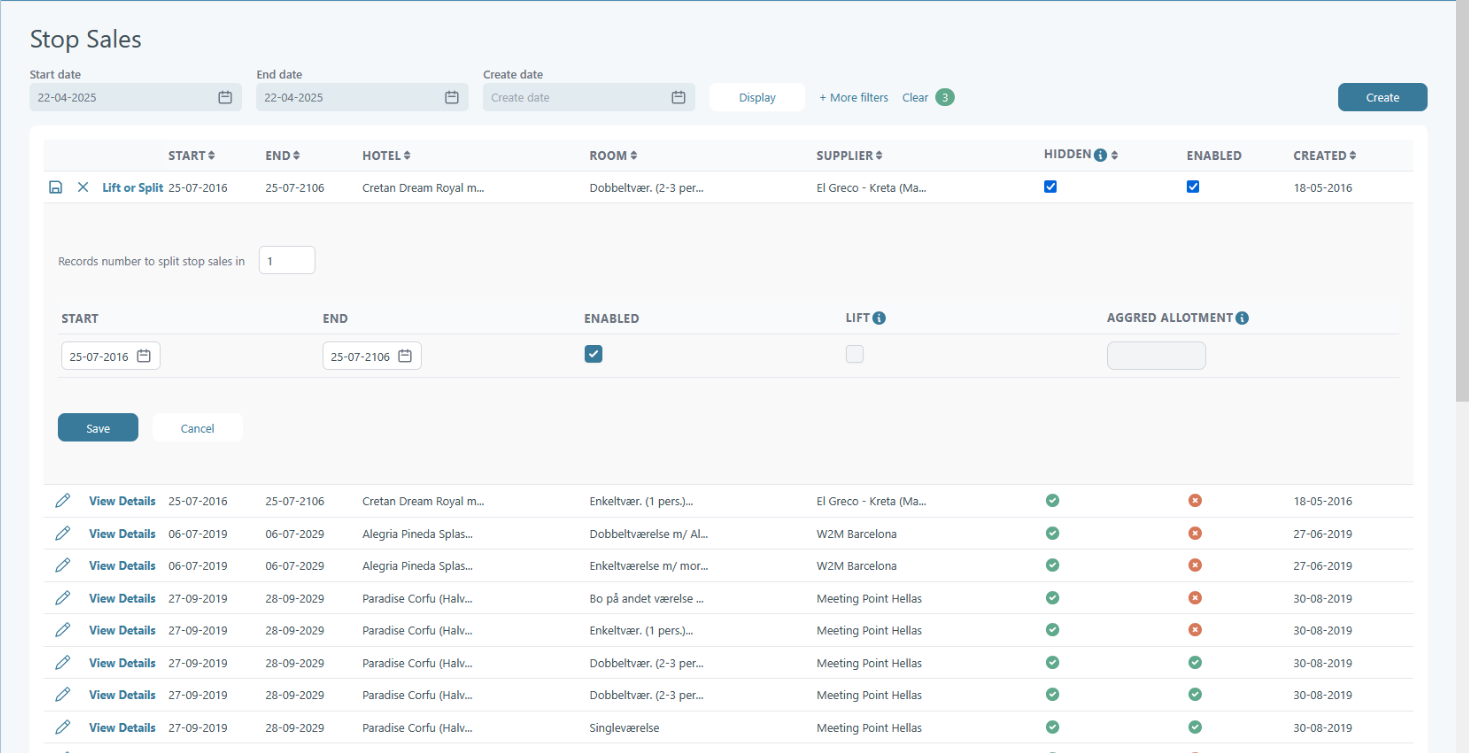
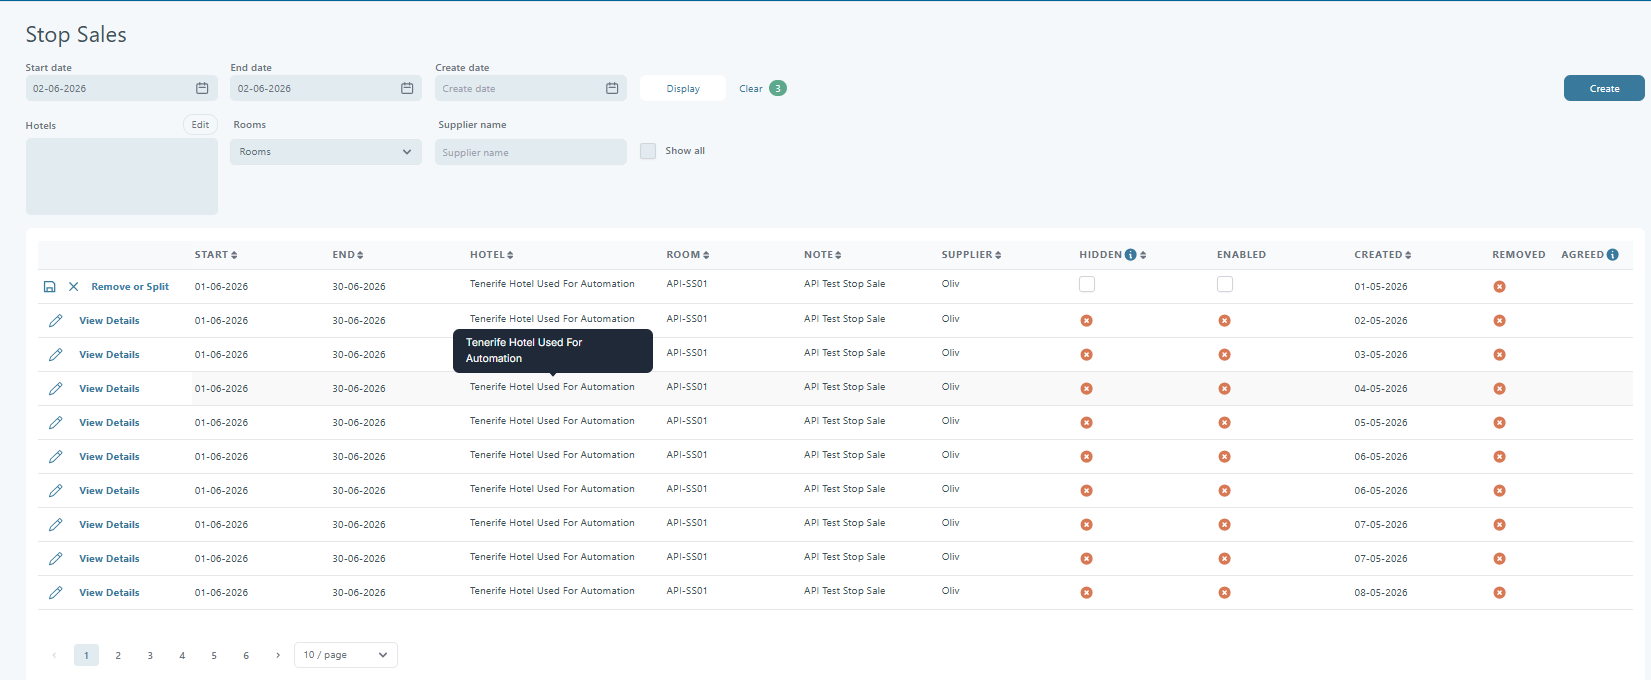
GITBOOK-1100: No subject

diff --git a/stop-sales/edit-stop-sale.md b/stop-sales/edit-stop-sale.md
@@ -28,7 +28,7 @@ The purpose of the _Edit Stop Sale_ functionality is to:
 2. Find the rule you want to change.
 3. Click **Edit** (pencil icon).
 
-<figure><img src="../.gitbook/assets/image (30).png" alt=""><figcaption></figcaption></figure>
+<figure><img src="../.gitbook/assets/02.06.2026_14.36.22_REC.png" alt=""><figcaption></figcaption></figure>
 
 {% hint style="info" %}
 Only enabled rules can be removed or split.
@@ -40,7 +40,7 @@ Only enabled rules can be removed or split.
 
 Click **Remove or Split** above the rule. This opens an extra section under the list.
 
-<figure><img src="../.gitbook/assets/image (1) (1) (1) (1) (1) (1) (1) (1) (1) (1) (1) (1) (1) (1) (1) (1) (1) (1) (1) (1) (1) (1) (1) (1) (1) (1) (1) (1) (1) (1) (1) (1) (1) (1) (1) (1) (1) (1) (1) (1) (1) (1) (1) (1) (1) (1) (1) (1) (1) (1) (1) (1) (1) (1) (1) (1) (1) (1) (1) (1)  (23).png" alt=""><figcaption></figcaption></figure>
+<figure><img src="../.gitbook/assets/02.06.2026_14.38.26_REC.png" alt=""><figcaption></figcaption></figure>
 {% endstep %}
 
 {% step %}